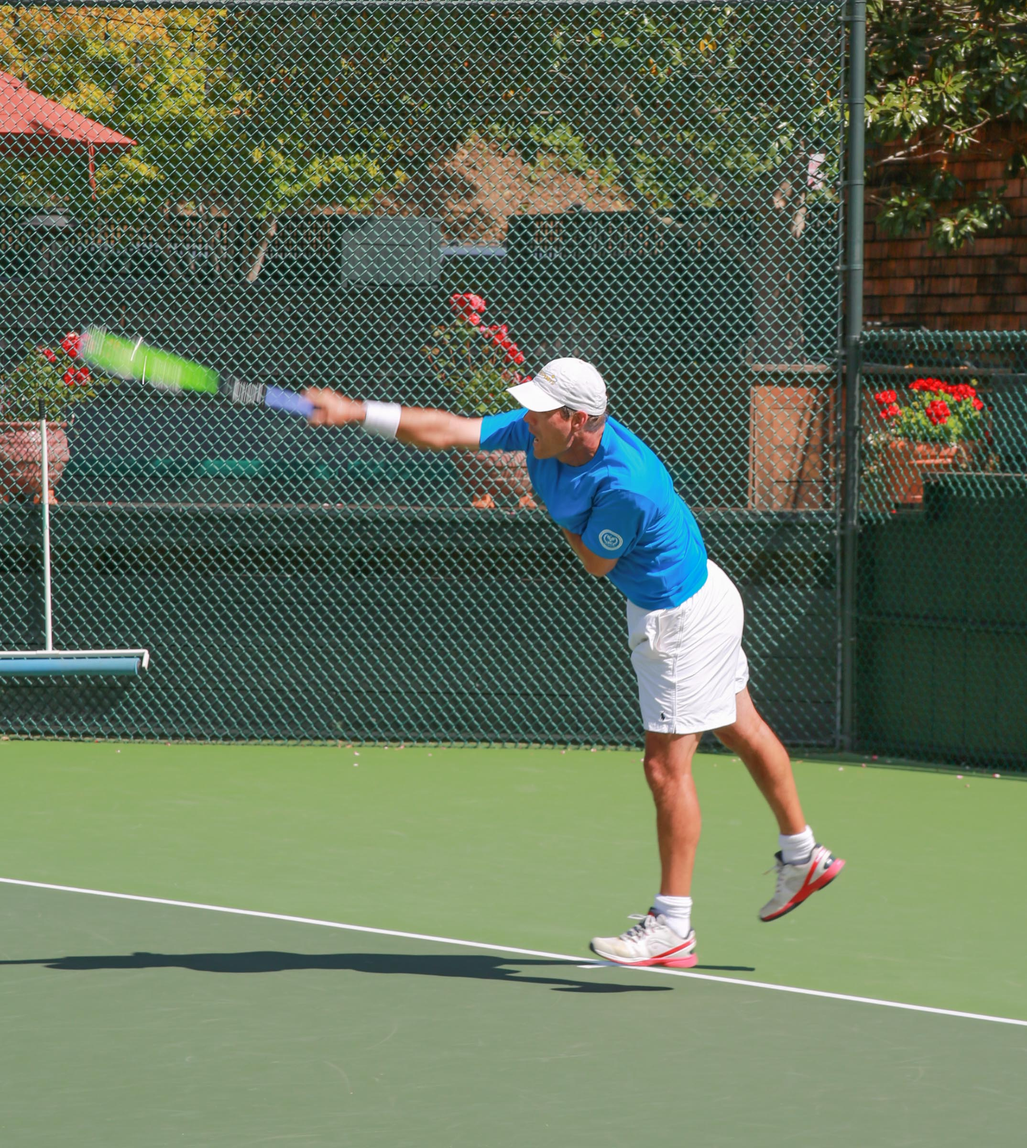
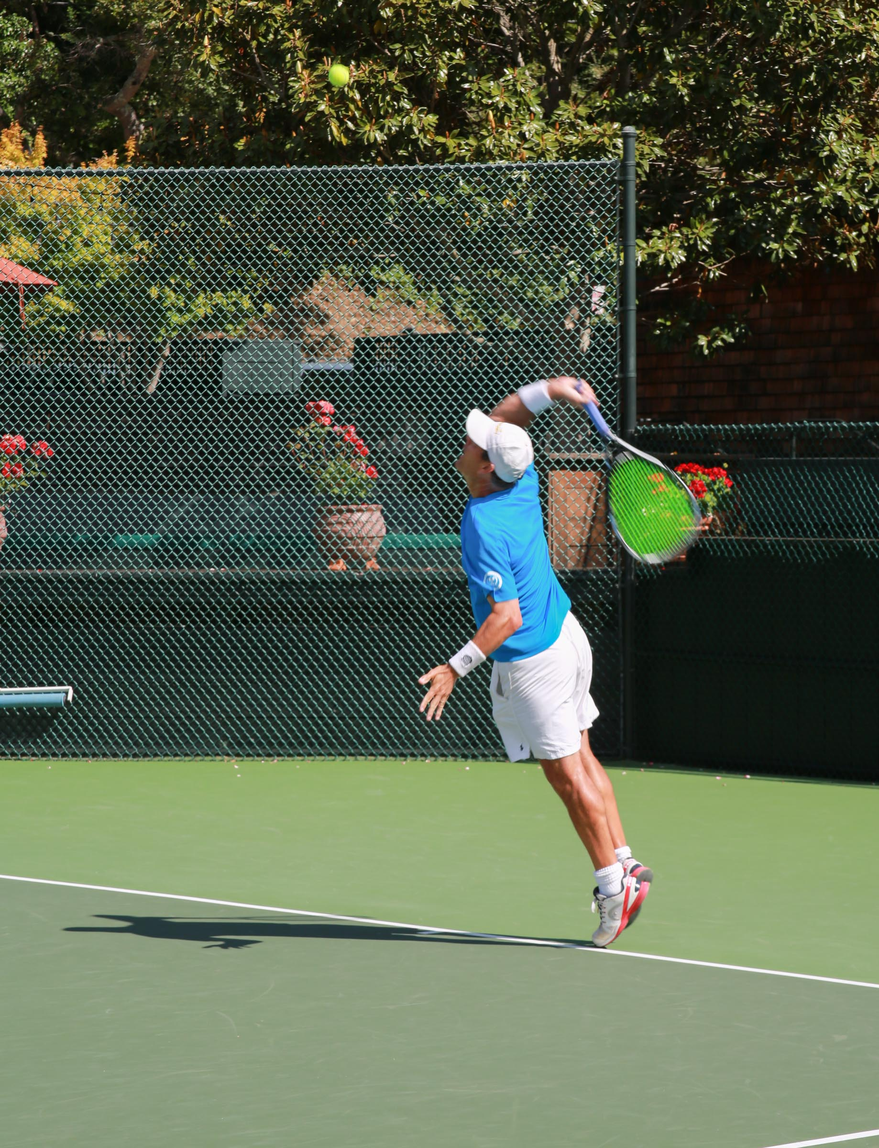
fix: preserve full serving poses and correct photo order

diff --git a/site/assets/css/styles.css b/site/assets/css/styles.css
@@ -69,7 +69,7 @@ html[data-editorial-notes-hidden] [data-editorial-placeholder] { display: inline
 .photo img { border-radius: var(--radius); object-fit: cover; }
 .photo figcaption { color: var(--muted); font-size: .75rem; margin-top: 12px; }
 /* Stack the photo frames in a fixed window so fading never shifts the layout. */
-.hero-photo { --sequence-ratio: 4 / 5; width: 100%; max-width: 420px; justify-self: end; }
+.hero-photo { --sequence-ratio: 3 / 4; width: 100%; max-width: 420px; justify-self: end; }
 .photo-sequence .image-window { position: relative; aspect-ratio: var(--sequence-ratio); overflow: hidden; border-radius: var(--radius); background: #142a20; }
 /* Each crop centers Scott's body and preserves the source image's proportions. */
 .photo-sequence img {
@@ -84,10 +84,11 @@ html[data-editorial-notes-hidden] [data-editorial-placeholder] { display: inline
   opacity: 0;
   transition: opacity .7s ease-in-out;
 }
-.hero-photo img:nth-child(1) { --frame-width: 159.8214%; --frame-height: 142.8571%; --subject-x: -65%; --subject-y: -58%; }
-.hero-photo img:nth-child(2) { --frame-width: 129.4192%; --frame-height: 151.5152%; --subject-x: -60%; --subject-y: -65%; }
-.hero-photo img:nth-child(3) { --frame-width: 136.7560%; --frame-height: 142.8571%; --subject-x: -62%; --subject-y: -59%; }
-.hero-photo img:nth-child(4) { --frame-width: 148.0758%; --frame-height: 138.8889%; --subject-x: -65%; --subject-y: -50%; }
+/* Wider serve crops include extended arms, rackets, and feet with edge clearance. */
+.hero-photo img:nth-child(1) { --frame-width: 102.1111%; --frame-height: 100.0000%; --subject-x: -50%; --subject-y: -50%; }
+.hero-photo img:nth-child(2) { --frame-width: 101.2346%; --frame-height: 111.1111%; --subject-x: -50%; --subject-y: -49%; }
+.hero-photo img:nth-child(3) { --frame-width: 121.7687%; --frame-height: 102.0408%; --subject-x: -46%; --subject-y: -50%; }
+.hero-photo img:nth-child(4) { --frame-width: 113.7222%; --frame-height: 100.0000%; --subject-x: -50%; --subject-y: -50%; }
 .coaching-photo { --sequence-ratio: .95; }
 .coaching-photo img:nth-child(1) { --frame-width: 158.2905%; --frame-height: 100%; --subject-x: -50%; --subject-y: -50%; }
 .coaching-photo img:nth-child(2) { --frame-width: 158.2905%; --frame-height: 100%; --subject-x: -54%; --subject-y: -50%; }

diff --git a/site/index.html b/site/index.html
@@ -17,9 +17,9 @@
   <main id="main">
 <section class="hero"><div class="container hero-grid"><div class="hero-copy"><p class="eyebrow">Peninsula & South Bay · Tennis coaching</p><h1>A stronger game.<br>A smarter approach.</h1><p class="lead">Private tennis coaching for adults, doubles teams, and competitive players. Individual attention. Purposeful practice.</p><div class="button-row"><a class="button" href="tel:+16502813680">Call Scott<span aria-hidden="true">↗</span></a><a class="button button-secondary" href="coaching-programs.html">Explore programs<span aria-hidden="true">↗</span></a></div><p class="hero-caption">A personal approach, from your first conversation to your next match.</p></div><figure class="photo photo-sequence hero-photo" data-photo-sequence>
   <div class="image-window" role="img" aria-label="Four-photo sequence of Scott Howard’s tennis serve on an outdoor court">
-    <img class="is-active" src="assets/images/serve-1.jpg" alt="" aria-hidden="true" width="2148" height="2400" fetchpriority="high">
-    <img src="assets/images/serve-2a.jpg" alt="" aria-hidden="true" width="1640" height="2400">
-    <img src="assets/images/serve-3.jpg" alt="" aria-hidden="true" width="1838" height="2400">
+    <img class="is-active" src="assets/images/serve-1.jpg" alt="" aria-hidden="true" width="1838" height="2400" fetchpriority="high">
+    <img src="assets/images/serve-2.jpg" alt="" aria-hidden="true" width="1640" height="2400">
+    <img src="assets/images/serve-3.jpg" alt="" aria-hidden="true" width="2148" height="2400">
     <img src="assets/images/serve-4.jpg" alt="" aria-hidden="true" width="2047" height="2400">
   </div>
   <figcaption><span>Scott Howard · On court</span><button class="sequence-toggle" type="button" hidden>Pause sequence</button></figcaption>

diff --git a/site/assets/js/site.js b/site/assets/js/site.js
@@ -104,7 +104,11 @@ document.querySelectorAll('.interest-select-control').forEach((control) => {
 
 // Load all frames before starting; leave a static photo if loading fails.
 document.querySelectorAll('[data-photo-sequence]').forEach((sequence) => {
-  const frames = Array.from(sequence.querySelectorAll('.image-window img'));
+  const frames = Array.from(sequence.querySelectorAll('.image-window img')).sort((a, b) => {
+    const filename = (frame) => frame.getAttribute('src').split('/').pop();
+    return filename(a).localeCompare(filename(b), 'en', { numeric: true });
+  });
+  frames.forEach((frame, index) => frame.classList.toggle('is-active', index === 0));
   const toggle = sequence.querySelector('.sequence-toggle');
   const reducedMotion = window.matchMedia('(prefers-reduced-motion: reduce)');
   let current = 0;

diff --git a/site/assets/images/README.md b/site/assets/images/README.md
@@ -24,7 +24,7 @@ The two teaching videos are linked from Scott’s original homepage. Their local
 
 ## Serve sequence
 
-`serve-1.jpg`, `serve-2a.jpg`, `serve-3.jpg`, and `serve-4.jpg` were supplied by the user in `artifacts/` for the home page serving sequence. Published copies preserve the original images. The home page uses individual CSS crops in a shared 4:5 window to keep Scott's body centered across the sequence. Confirm launch permission with Scott along with the other photos.
+`serve-1.jpg`, `serve-2.jpg`, `serve-3.jpg`, and `serve-4.jpg` were supplied by the user in `artifacts/` for the home page serving sequence. Published copies preserve the original images. The home page uses individual CSS crops in a shared 3:4 window to preserve Scott's full body and racket across the sequence. Confirm launch permission with Scott along with the other photos.
 
 ## Coaching sequence
 
